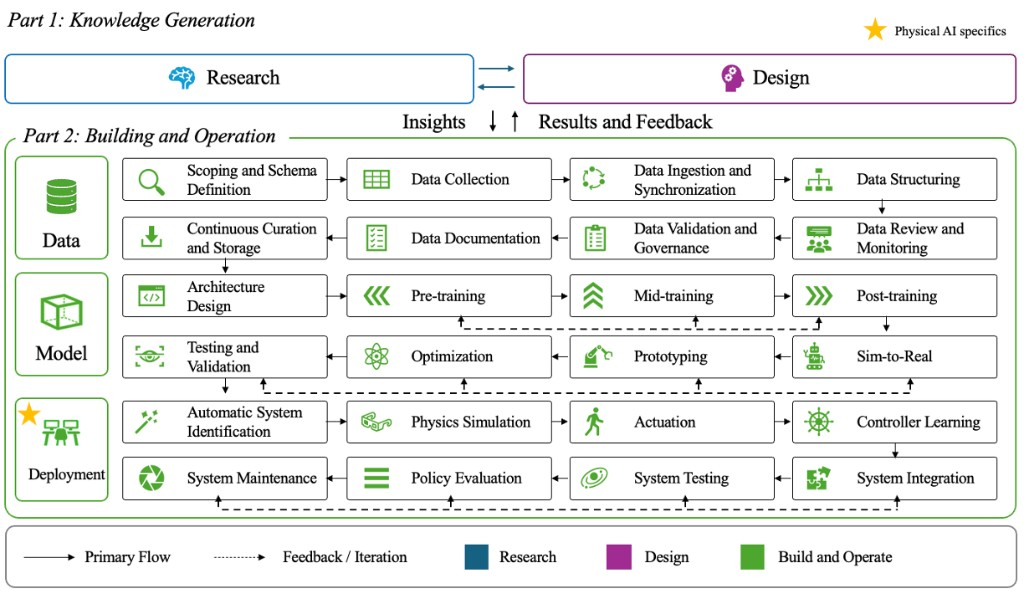
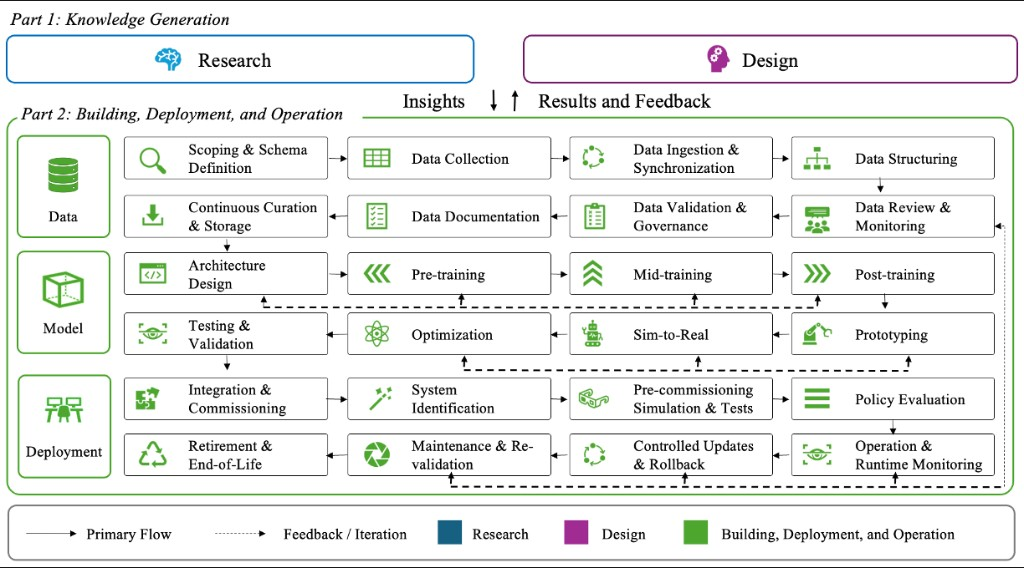
Add Outstanding List, update life-cycle figure and community principle
- Add Outstanding List section with spreadsheet link and contribution invite
- Update life-cycle figure to newest version
- Reword community principle to "this community"

Changed region(s): [[0.0, 0.0, 1.0, 1.0]]

diff --git a/README.md b/README.md
@@ -38,10 +38,16 @@ Physical AI refers to AI systems that are grounded in the physical world through
 - **Monthly updates:** We update our paper on the **first Monday of every month**.
 - **Authorship:** Everyone who contributes in the Overleaf project will be named as an author. To join, please let us know by emailing **[trustworthyphysicalai@gmail.com](mailto:trustworthyphysicalai@gmail.com)**.
 - **Community principle:** This work is for the healthy and safe development of technology, with **no intention to slow down the development of good technology**.
-- **Everyone can grow:** No one is an expert. No one cannot become an expert with the community.
+- **Everyone can grow:** No one is an expert. No one cannot become an expert with this community.
 - **No unnecessary politics:** We do not appreciate unnecessary politics.
 - **Independent research:** This is an independent research work with collaborators around the world.
 - **Open to feedback:** We welcome questions, critiques, and ideas, and we would like to improve this work in all forms. If you would like to communicate, please write to **[trustworthyphysicalai@gmail.com](mailto:trustworthyphysicalai@gmail.com)**.
+
+## Outstanding List
+
+We maintain an **outstanding list** of open items, questions, and topics we would like to improve or add to the paper: [view the list here](https://docs.google.com/spreadsheets/d/1EKDw9kbTy4XuLPPmIfSNu6ymitesWox83yl6WxruDBA/edit?usp=sharing).
+
+Feel free to write to us with your suggestions at **[trustworthyphysicalai@gmail.com](mailto:trustworthyphysicalai@gmail.com)**. Once a suggestion is adopted into the outstanding list, we will be able to include you in the paper.
 
 ## Success Criteria
 
